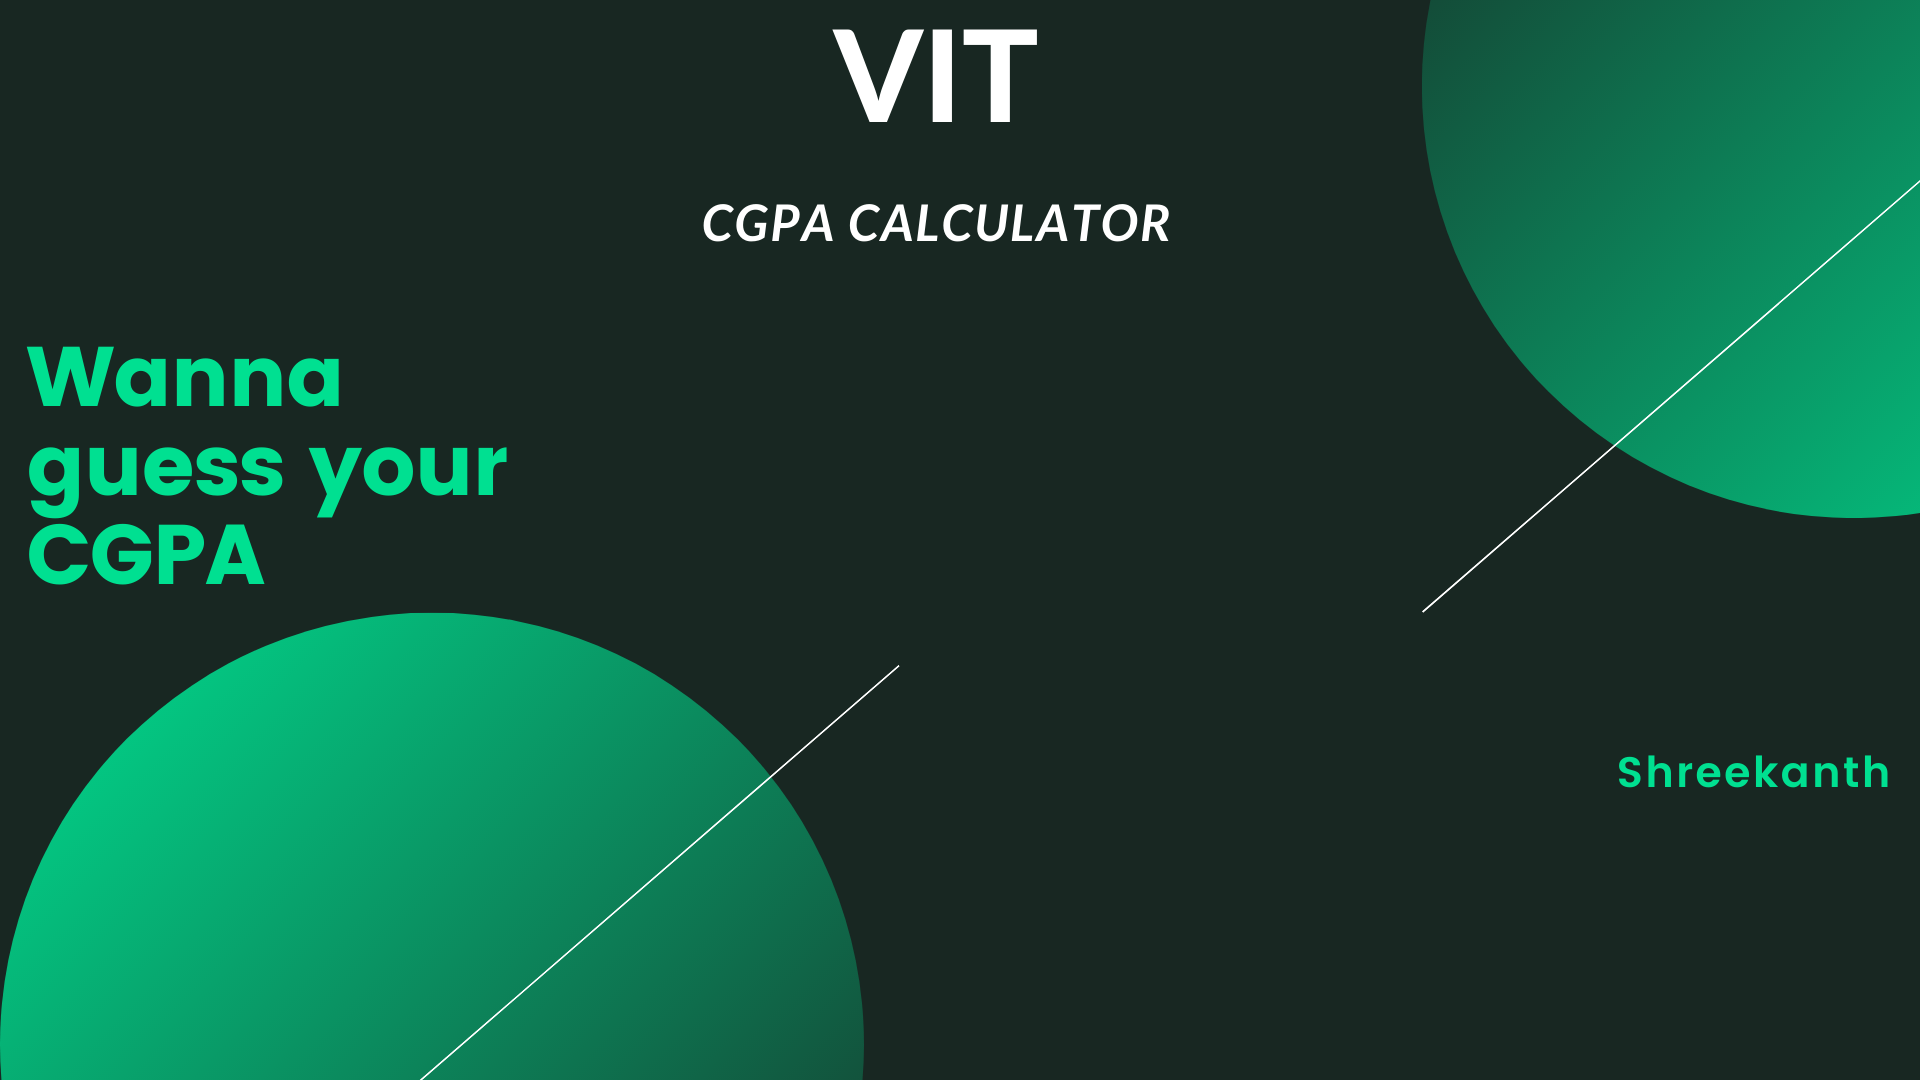
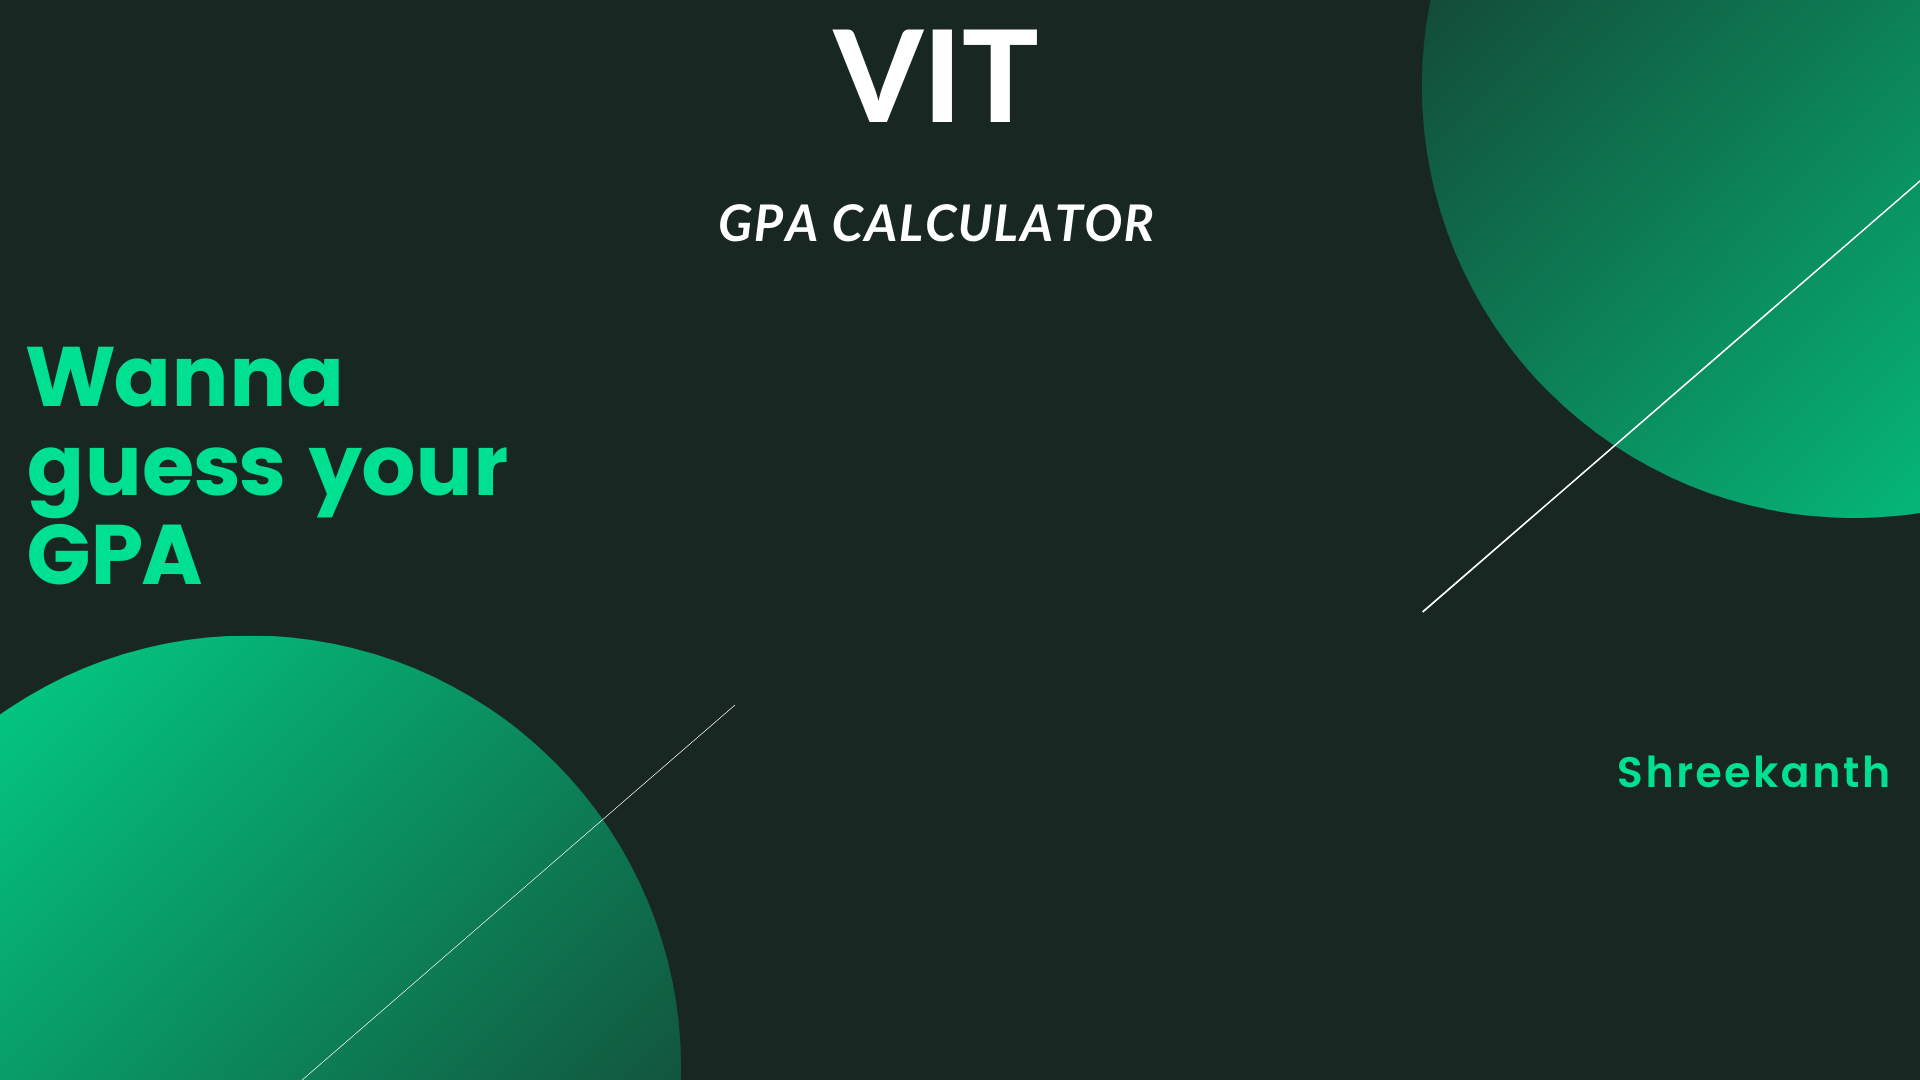
Corrected Typos

Changed region(s): [[0.0, 0.55, 0.4688, 1.0], [0.3438, 0.1833, 0.625, 0.2444], [0.0312, 0.4889, 0.1562, 0.55]]

diff --git a/gpa_cal.js b/gpa_cal.js
@@ -77,7 +77,7 @@ function del_course() {
     i -=1;
 }
 
-function cal_cgpa() {
+function cal_gpa() {
     var j;
     var total_grade = 0;
     var total_credit=0;
@@ -95,12 +95,12 @@ function cal_cgpa() {
         total_grade += credit * grade;
         total_credit += credit;
     }
-    var cgpa = total_grade / total_credit;
+    var gpa = total_grade / total_credit;
     if(total_credit == 0){
-        cgpa = 0;
+        gpa = 0;
     }
-    cgpa = cgpa.toFixed(2);
-    document.getElementById('cgpa').innerHTML = "CGPA : " + cgpa;
+    gpa = gpa.toFixed(2);
+    document.getElementById('gpa').innerHTML = "GPA : " + gpa;
 }
 
 add_course();

diff --git a/home.html b/home.html
@@ -18,8 +18,8 @@
 <button id="add" onclick="add_course()">Add</button>
 <button id="del" onclick="del_course()">Delete</button>
 <br>
-<button id="cgbutton" onclick="cal_cgpa()">Calculate CGPA</button>
-<p id="cgpa"></p>
+<button id="gpabutton" onclick="cal_gpa()">Calculate GPA</button>
+<p id="gpa"></p>
 </body>
 <script src="gpa_cal.js"></script>
 </html>

diff --git a/gpa_cal.css b/gpa_cal.css
@@ -51,15 +51,15 @@ p{
     margin-left: 950px;
 }
 
-#cgbutton{
-    min-width: 200px;
+#gpabutton{
+    min-width: 250px;
     font: 30px/20px "Times New Roman", serif;
     position: relative;
     top: 375px;
     margin-left: 820px;
 }
 
-#cgpa{
+#gpa{
     font: bold 40px/30px Georgia, serif;
     position: relative;
     top: 385px;
